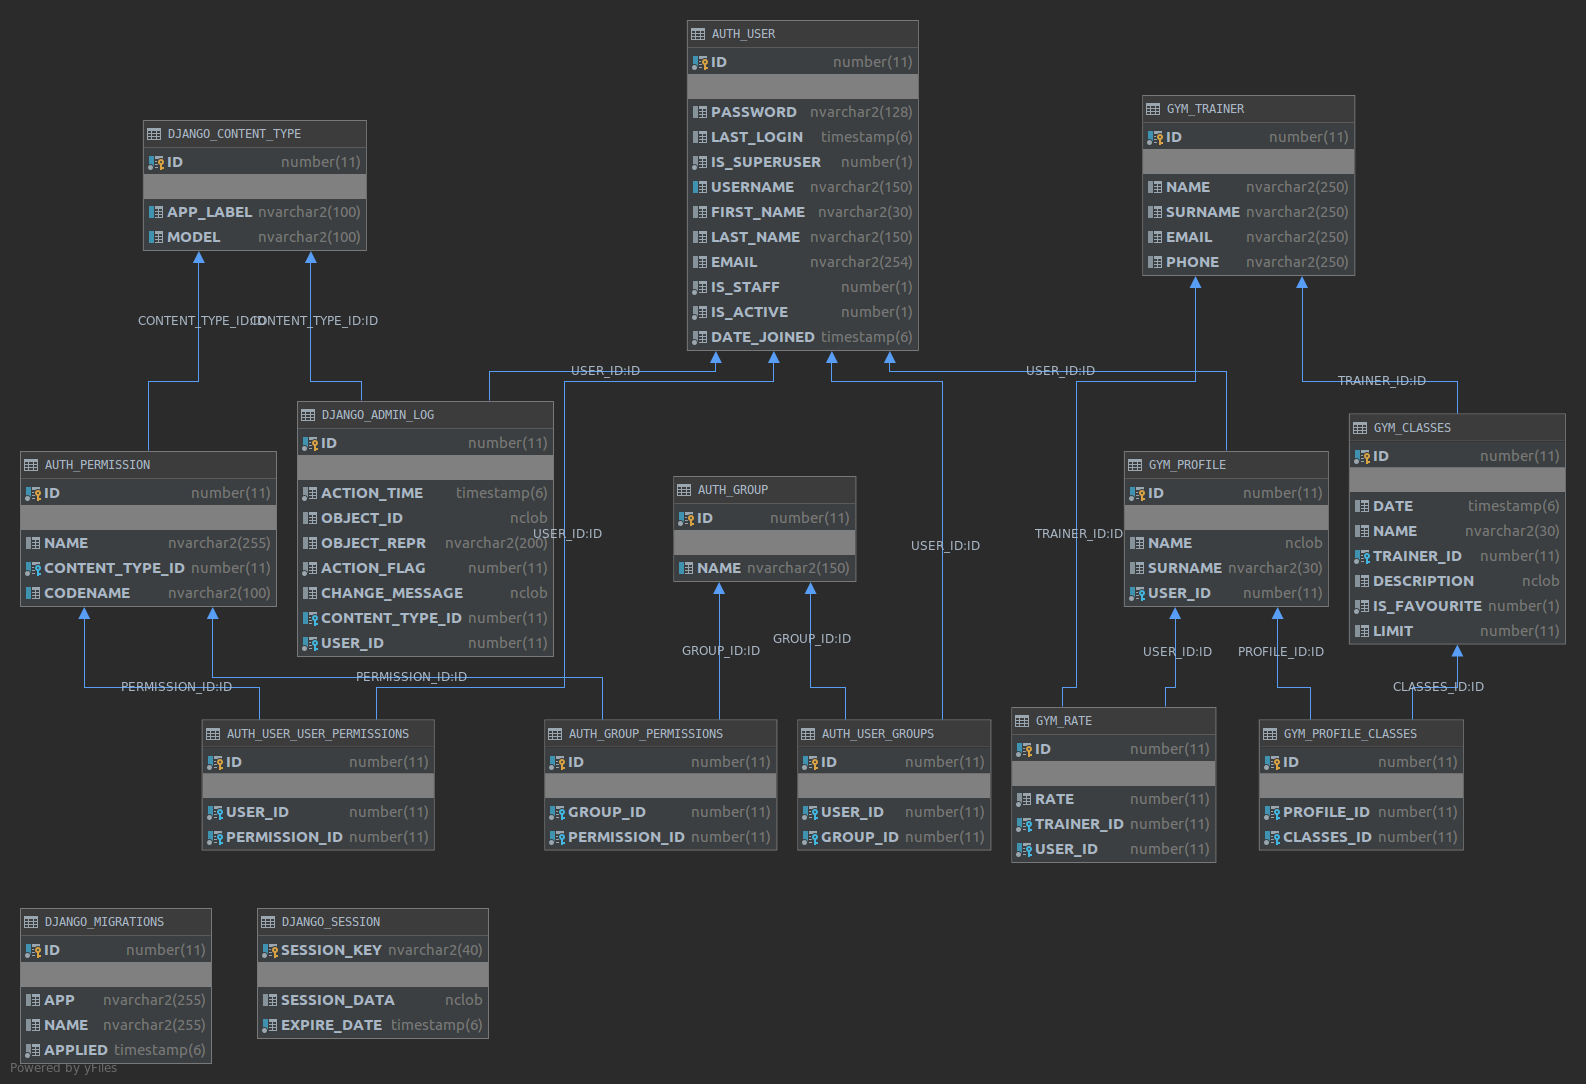
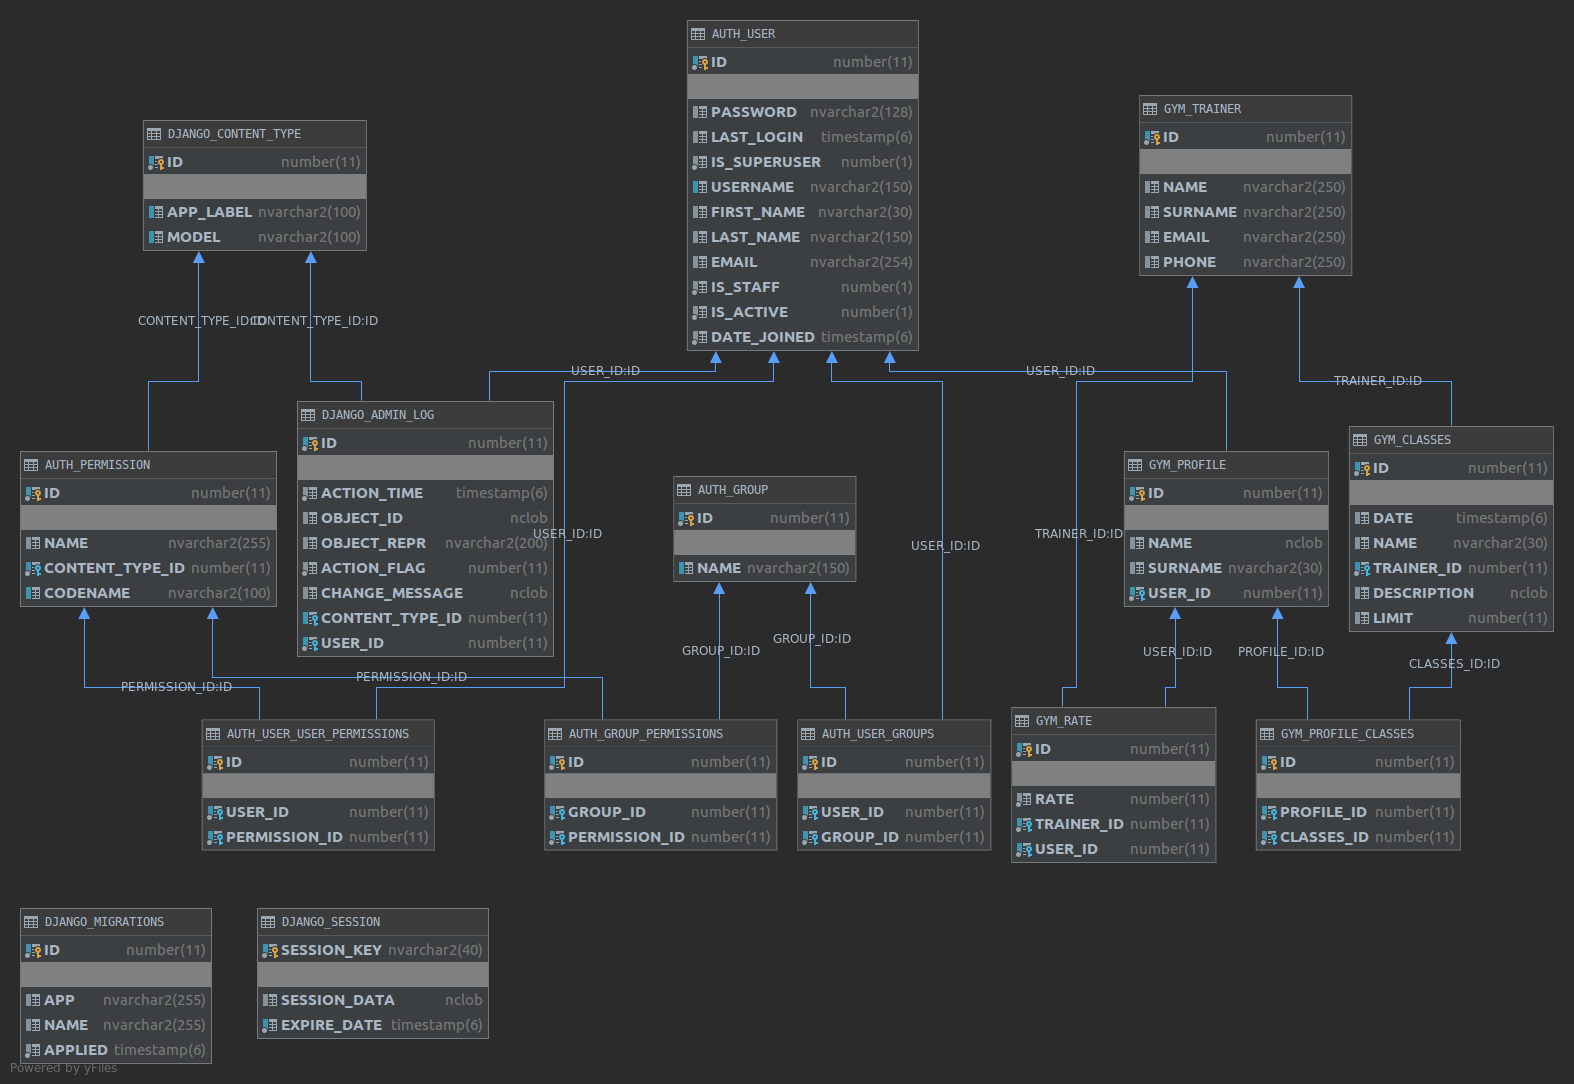
Improve readme

diff --git a/gym/models.py b/gym/models.py
@@ -76,7 +76,6 @@ class Classes(models.Model):
     date = models.DateTimeField()
     name = models.CharField(max_length=30)
     description = models.TextField(max_length=250, default='class description', editable=True)
-    is_favourite = models.BooleanField(default=False)
     limit = models.PositiveIntegerField(null=True, default=15)
 
     def get_participants_number(self):

diff --git a/gym/migrations/0012_remove_classes_is_favourite.py b/gym/migrations/0012_remove_classes_is_favourite.py
@@ -1,0 +1,17 @@
+# Generated by Django 3.0.6 on 2020-06-29 17:54
+
+from django.db import migrations
+
+
+class Migration(migrations.Migration):
+
+    dependencies = [
+        ('gym', '0011_auto_20200625_1834'),
+    ]
+
+    operations = [
+        migrations.RemoveField(
+            model_name='classes',
+            name='is_favourite',
+        ),
+    ]

diff --git a/README.md b/README.md
@@ -6,10 +6,36 @@ Aplikacja dla klientów siłowni.
 - Baza danych: Oracle
 
 ## Opis projektu
-Aplikacja pozwala na autentykację klientów siłowni. Klient może zapisywać się na zajęcia, wyświetlić listę zajęć i przeglądać strony z informacjami na temat zajęć i trenerów.
+Aplikacja pozwala na autentykację klientów siłowni. Klient może zapisywać się na zajęcia, oceniać prowadząceog zajęć, w których brał udział i wyświetlić listę zajęć i przeglądać strony z informacjami na temat zajęć i trenerów.
 
 Dodawanie zajęć możliwe jest po wejściu na podstronę /admin i zalogowaniu się jako superuser.
 
+## Modele
+Trainer - model trenera, ma pola:
+* name
+* surname
+* email
+* phone
+
+Classes - model zajęć, ma pola:
+* trainer - trener prowadzący zajęcia (Foreign Key)
+* date - data zajęć w formacie
+* name - nazwa
+* description - opis zajęć
+* limit - limit uczestników; po osiągnięciu limitu zapis na zajęcia zamyka się
+
+Profile - model profilu użytkownika, jest modelem wbudowanego modelu User, ma pola:
+* user - relacja jeden-to-jeden, łączy model Profile z modelem User, ułatwia to autentykację
+* name
+* surname
+* classes - relacja wiele-do-wielu, lista zajęć użytkownika (przeszłych i przyszłych)
+
+Rate - model oceny, ma pola:
+* trainer - id ocenianego trenera (Foreign Key)
+* user - id oceniającego użytkownika (Foreign Key)
+* rate - ocena w zakresie 1-5
+
+RateOptions - model enumarated, "tłumaczy" oceny w zakresie 1-5 na opisy słowne
 
 ## Struktura:
 
